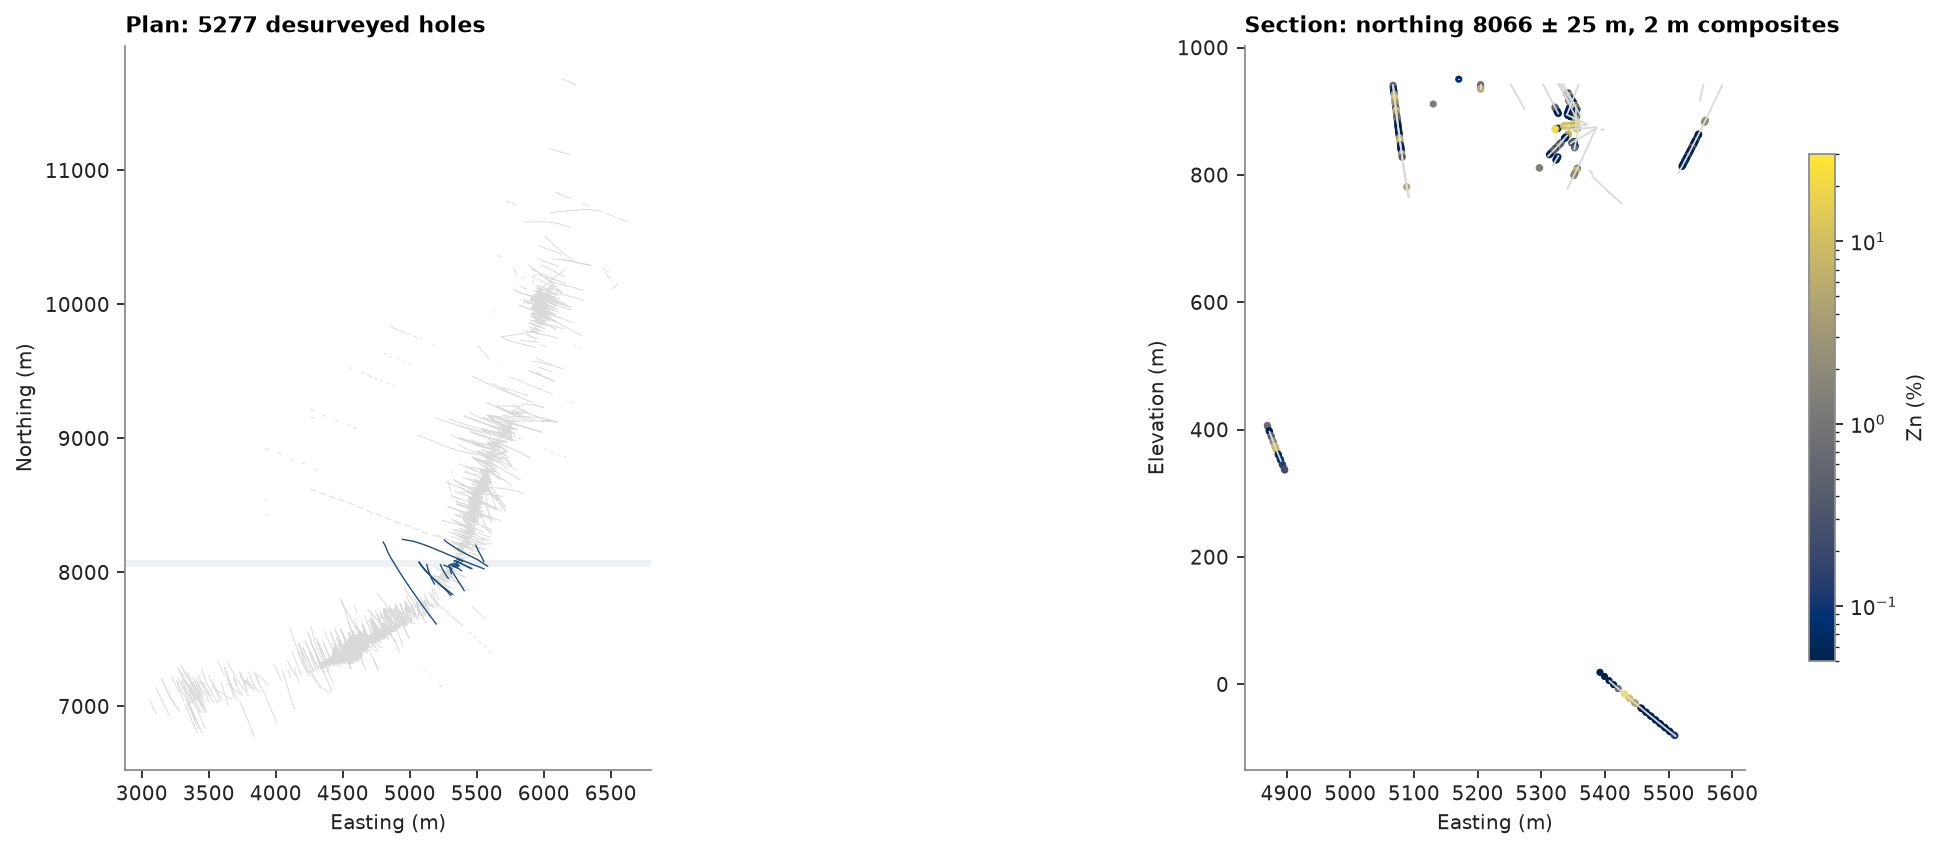
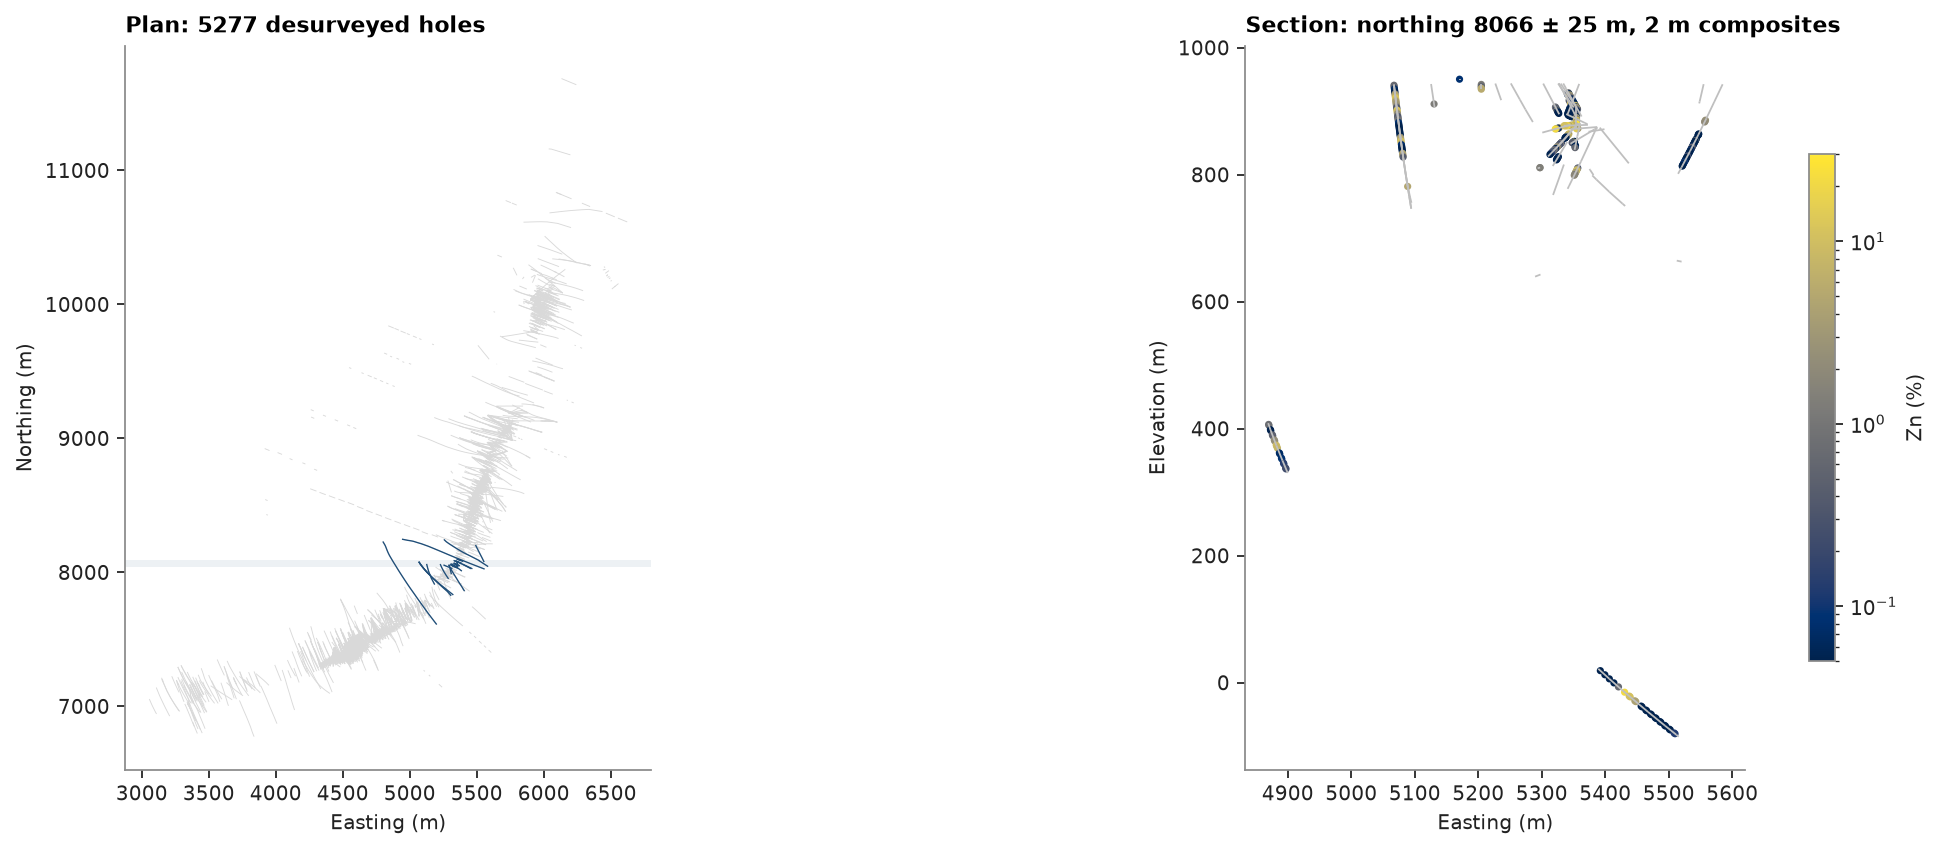
docs(examples): re-render chapters 06, 07, 15, 19 and 20 with plane sections

diff --git a/examples/06-drillholes/README.md b/examples/06-drillholes/README.md
@@ -163,15 +163,6 @@ traces = np.split(xyz, breaks)
 y0 = np.median(composites.coords[:, 1])
 half = 25.0
 in_slab = [t for t in traces if np.any(np.abs(t[:, 1] - y0) < half)]
-inside = []
-for t in in_slab:
-    inslab = np.abs(t[:, 1] - y0) < half
-    for run in np.split(np.arange(len(t)), np.flatnonzero(np.diff(inslab.astype(int))) + 1):
-        if inslab[run[0]] and len(run) > 1:
-            inside.append(t[run][:, [0, 2]])
-comps = composites.coords
-zn = composites["ZN"]
-near = (np.abs(comps[:, 1] - y0) < half) & ~np.isnan(zn) & (zn > 0)
 
 fig, (a, b) = plt.subplots(
     1, 2, figsize=(12, 5.2), layout="constrained", gridspec_kw={"width_ratios": [1, 1.6]}
@@ -182,16 +173,19 @@ a.axhspan(y0 - half, y0 + half, color=ACCENT, alpha=0.08, lw=0)
 a.autoscale()
 a.set_aspect("equal")
 a.set(title=f"Plan: {len(dh)} desurveyed holes", xlabel="Easting (m)", ylabel="Northing (m)")
-b.add_collection(LineCollection(inside, colors=LIGHT, linewidths=0.8))
-points = b.scatter(comps[near, 0], comps[near, 2], c=zn[near], s=5, norm=LogNorm(0.05, 30), cmap="cividis")
-b.autoscale()
-b.set_aspect("equal")
-b.set(
-    title=f"Section: northing {y0:.0f} ± {half:.0f} m, 2 m composites",
-    xlabel="Easting (m)",
-    ylabel="Elevation (m)",
+cs.plot.slab(
+    composites,
+    "ZN",
+    plane=((0, y0, 0), 90, 90),
+    thickness=2 * half,
+    lines=in_slab,
+    colorbar=False,
+    s=5,
+    norm=LogNorm(0.05, 30),
+    ax=b,
 )
-fig.colorbar(points, ax=b, shrink=0.7, label="Zn (%)")
+b.set_title(f"Section: northing {y0:.0f} ± {half:.0f} m, 2 m composites")
+fig.colorbar(b.collections[-1], ax=b, shrink=0.7, label="Zn (%)")
 save(fig, "holes")
 ```
 
@@ -215,6 +209,7 @@ a.legend()
 logbins = np.logspace(-2, 1.7, 40)
 raw_zn = assay["ZN"]
 a_zn = raw_zn[raw_zn > 0]
+zn = composites["ZN"]
 c_zn = zn[zn > 0]
 b.hist(
     a_zn,

diff --git a/examples/07-solids/README.md b/examples/07-solids/README.md
@@ -106,30 +106,26 @@ visible faces with `block_shell`:
 ```python
 k = count[2] // 2
 level = lo[2] + (k + 0.5) * size
-layer = blocks.centroids[:, 2] == level
+bench = ((0, 0, level), 90, 0)
 fig = plt.figure(figsize=(12, 5), layout="constrained")
 a = fig.add_subplot(1, 2, 1)
-image = a.imshow(
-    proportion[layer].reshape(count[1], count[0]),
-    origin="lower",
-    extent=(lo[0], lo[0] + count[0] * size, lo[1], lo[1] + count[1] * size),
-    cmap="cividis",
-    vmin=0,
-    vmax=1,
+cs.plot.section(blocks, "inside", axis="z", index=k, colorbar=False, vmin=0, vmax=1, ax=a)
+cs.plot.slab(
+    xyz[local][~inside], plane=bench, thickness=size, s=6, color=GREY, label="composite outside", ax=a
 )
-slab = local.copy()
-slab[local] = np.abs(xyz[local, 2] - level) < size / 2
-near_inside = solid.contains(xyz[slab])
-a.scatter(*xyz[slab][~near_inside, :2].T, s=6, color=GREY, label="composite outside")
-a.scatter(*xyz[slab][near_inside, :2].T, s=6, color=HIGHLIGHT, label="composite inside")
-a.set_aspect("equal")
-a.set(
-    title=f"Block proportion inside the solid, bench {level:.0f} m",
-    xlabel="Easting (m)",
-    ylabel="Northing (m)",
+cs.plot.slab(
+    xyz[local][inside],
+    plane=bench,
+    thickness=size,
+    meshes=solid,
+    s=6,
+    color=HIGHLIGHT,
+    label="composite inside",
+    ax=a,
 )
+a.set_title(f"Block proportion inside the solid and its outline, bench {level:.0f} m")
 a.legend(loc="lower right")
-fig.colorbar(image, ax=a, shrink=0.8, label="proportion of block inside")
+fig.colorbar(a.images[0], ax=a, shrink=0.8, label="proportion of block inside")
 
 b = fig.add_subplot(1, 2, 2, projection="3d")
 shell = cs.block_shell(ore)

diff --git a/examples/19-geological-model/README.md b/examples/19-geological-model/README.md
@@ -107,7 +107,7 @@ across the lens:
 
 ```python
 north = np.median(xyz[ms, 1])
-near = np.abs(xyz[:, 1] - north) < 10
+plane = ((0, north, 0), 90, 90)
 east, elevation = np.meshgrid(np.linspace(5300, 5500, 201), np.linspace(650, 950, 301))
 section = np.c_[east.ravel(), np.full(east.size, north), elevation.ravel()]
 extent = (5300, 5500, 650, 950)
@@ -125,15 +125,24 @@ sd = axes[2].imshow(
 axes[2].set_title("GP standard deviation")
 fig.colorbar(sd, ax=axes[2], shrink=0.8)
 for ax in axes:
-    ax.scatter(xyz[near & ~ms, 0], xyz[near & ~ms, 2], s=3, color=GREY, linewidths=0, label="other rock")
-    ax.scatter(xyz[near & ms, 0], xyz[near & ms, 2], s=5, color=HIGHLIGHT, linewidths=0, label="MS")
-    close = np.abs(contacts[:, 1] - north) < 10
-    ax.scatter(
-        contacts[close, 0], contacts[close, 2], s=12, marker="x", color=INK, linewidths=0.8, label="contact"
+    cs.plot.slab(
+        xyz[~ms], plane=plane, thickness=20, s=3, color=GREY, linewidths=0, label="other rock", ax=ax
     )
-    ax.set(xlim=extent[:2], ylim=extent[2:], xlabel="Easting (m)")
-    ax.set_aspect("equal")
-axes[0].set_ylabel("Elevation (m)")
+    cs.plot.slab(xyz[ms], plane=plane, thickness=20, s=5, color=HIGHLIGHT, linewidths=0, label="MS", ax=ax)
+    cs.plot.slab(
+        contacts,
+        plane=plane,
+        thickness=20,
+        s=12,
+        marker="x",
+        color=INK,
+        linewidths=0.8,
+        label="contact",
+        ax=ax,
+    )
+    ax.set(xlim=extent[:2], ylim=extent[2:])
+for ax in axes[1:]:
+    ax.set_ylabel("")
 axes[0].legend(loc="lower left", markerscale=2)
 save(fig, "section")
 ```

diff --git a/examples/15-implicit/README.md b/examples/15-implicit/README.md
@@ -92,16 +92,15 @@ j = int((np.median(xyz[indicator > 0, 1]) - lo[1]) // size)
 northing = lo[1] + (j + 0.5) * size
 x = lo[0] + (np.arange(count[0]) + 0.5) * size
 z = lo[2] + (np.arange(count[2]) + 0.5) * size
-near = np.abs(xyz[:, 1] - northing) < 10
+plane = ((0, northing, 0), 90, 90)
 fig, axes = plt.subplots(1, 2, figsize=(12, 5), layout="constrained", sharey=True)
 for ax, (name, field) in zip(axes, fields.items()):
     ax.contourf(x, z, field[:, j, :], levels=[0, np.inf], colors=[LIGHT])
     ax.contour(x, z, field[:, j, :], levels=[0], colors=[ACCENT], linewidths=1.2)
     for mask, color, label in ((indicator < 0, GREY, "Zn ≤ 5 %"), (indicator > 0, HIGHLIGHT, "Zn > 5 %")):
-        ax.scatter(xyz[near & mask, 0], xyz[near & mask, 2], s=8, color=color, label=label)
-    ax.set_aspect("equal")
-    ax.set(title=f"{name}, northing {northing:.0f} m", xlabel="Easting (m)")
-axes[0].set_ylabel("Elevation (m)")
+        cs.plot.slab(xyz[mask], plane=plane, thickness=20, s=8, color=color, label=label, ax=ax)
+    ax.set_title(f"{name}, northing {northing:.0f} m")
+axes[1].set_ylabel("")
 axes[0].set_ylim(np.percentile(xyz[:, 2], 1) - 50, hi[2])
 axes[0].legend(loc="lower right", title="composites within 10 m")
 save(fig, "section")

diff --git a/examples/20-workflow/README.md b/examples/20-workflow/README.md
@@ -366,7 +366,6 @@ row = int(np.bincount(rows).argmax())
 on_row = blocks.centroids[rows == row]
 xlim, ylim = ((on_row[:, j].min() - 12.5, on_row[:, j].max() + 12.5) for j in (0, 2))
 north = on_row[0, 1]
-on_section = np.abs(xyz[:, 1] - north) < 5
 
 fig = plt.figure(figsize=(11, 6.4), layout="constrained")
 axes = fig.subplots(2, 4, height_ratios=[4, 1])
@@ -390,8 +389,8 @@ cs.plot.section(
 )
 titles = ("Kriged Zn", "Simulated block Zn", "P(block Zn > 10 %)", "Class")
 for ax, title in zip(axes[0], titles, strict=True):
-    ax.scatter(xyz[on_section, 0], xyz[on_section, 2], s=4, color=HIGHLIGHT, linewidths=0)
-    ax.set(title=title, xlabel="Easting (m)", ylabel="Elevation (m)", xlim=xlim, ylim=ylim)
+    cs.plot.slab(xyz, plane=((0, north, 0), 90, 90), thickness=10, s=4, color=HIGHLIGHT, linewidths=0, ax=ax)
+    ax.set(title=title, xlim=xlim, ylim=ylim)
 for ax, image, label in (
     (axes[1, 0], axes[0, 0].images[0], "Zn (%)"),
     (axes[1, 2], axes[0, 2].images[0], "probability"),
